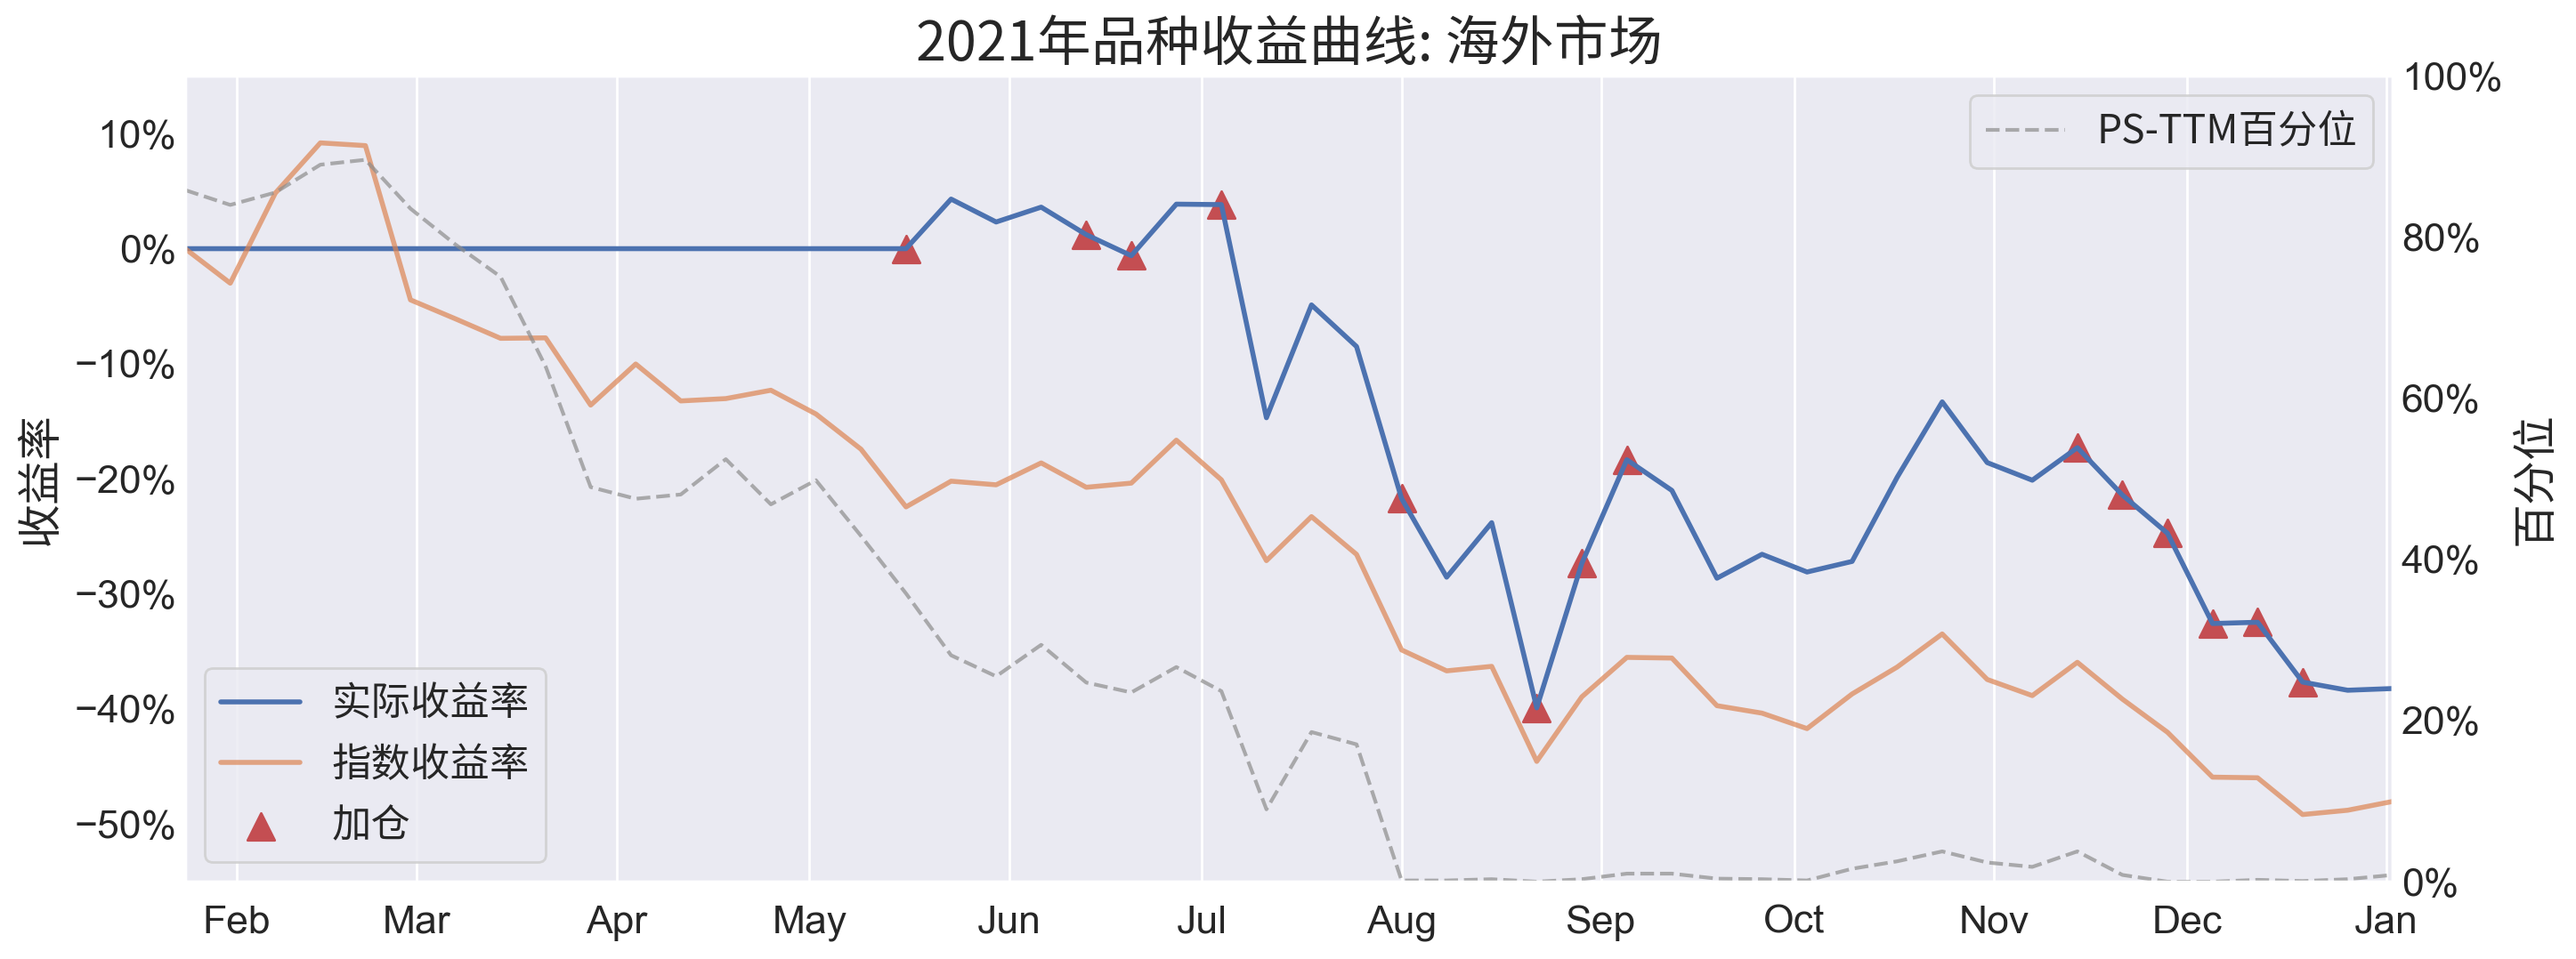
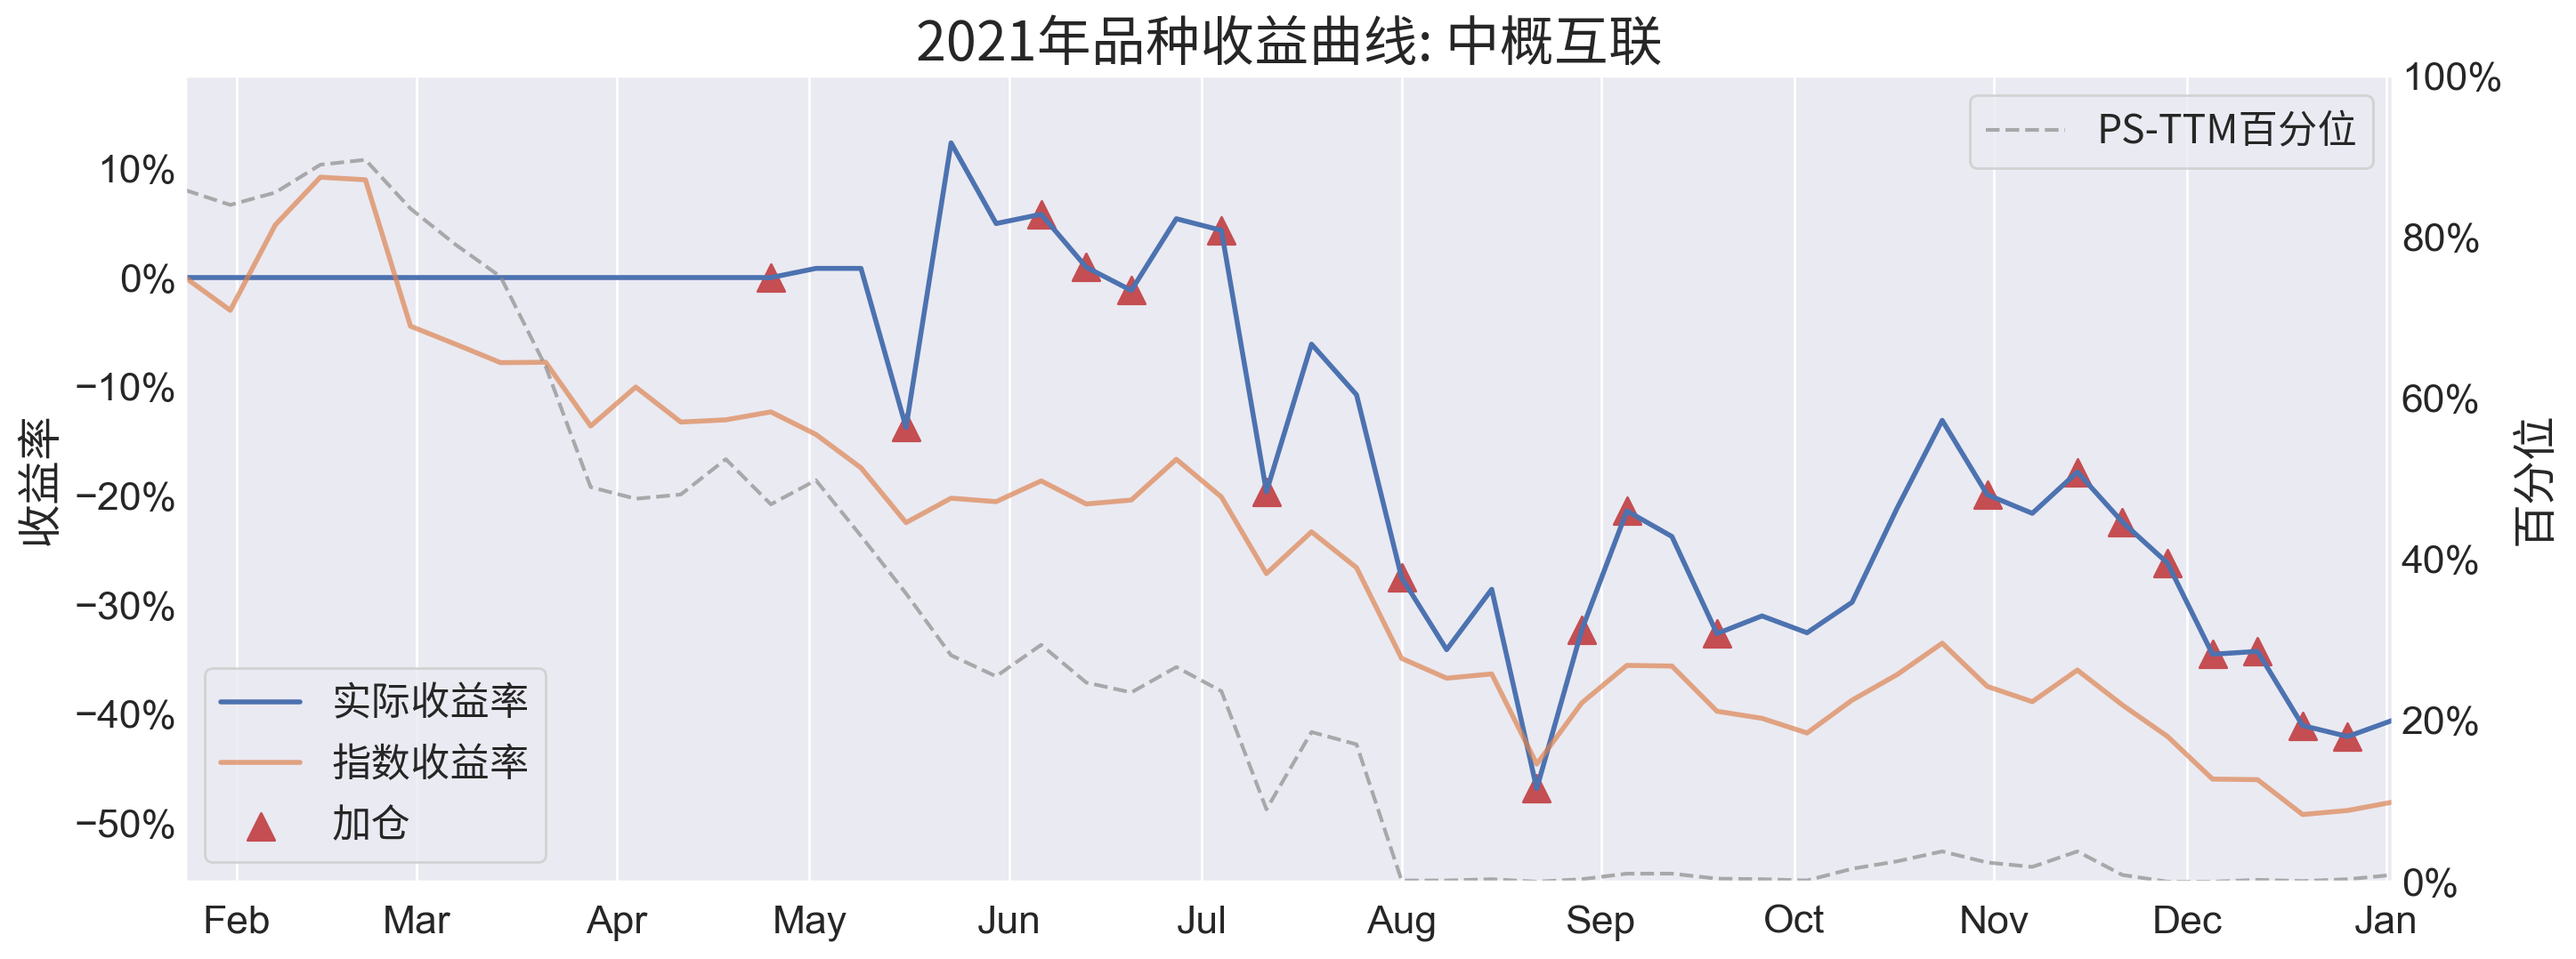
major change

diff --git a/_posts/2021-12-31-portfolio-review-2021.md b/_posts/2021-12-31-portfolio-review-2021.md
@@ -7,21 +7,23 @@ categories: Zen
 
 ---
 
-2021年是我以资产组合形式进行投资的第一年，刚好以年为单位，对组合的表现做个复盘。备注：数据统计区间是1月22日收盘后至12月31日收盘后。
+2021年是我以资产组合形式进行投资的第一年。从今年开始，以后每年年底会做一下投资复盘。
+
+备注：数据统计区间是1月22日收盘后至12月31日收盘后。
 
 ## 大事记
 
 - 1月初，下决心严肃对待投资理财，散兵游勇时代结束，资产组合时代开始
 - 1月下，完成初步学习和准备，开始建仓
 - 2月中，消费医疗见顶
-- 3月上，沪市下到3310，为本年最低点
+- 3月上，沪市达年内低点，下探3310
 - 4月底，完成建仓，并开启网格策略
 - 5月上，人口普查结果公布，部分行业的命运改变
 - 7月，反垄断收紧，中概互联月内跌17%
-- 9月中，原材料行情冲顶，中证500、红利达年内最高点
+- 9月中，原材料行情冲顶，中证500、红利达年内高点
 - 9月底，恒大暴雷，地产业寒冬
-- 10月底，Facebook改名Meta，开启元宇宙行情
-- 12月，港股持续走弱，从年内高点回撤28%，中概互联腰斩
+- 10月底，Facebook改名Meta，元宇宙行情开启
+- 12月，港股持续走弱，年内恒生回撤28%，中概互联腰斩
 
 ## 总览
 
@@ -30,38 +32,27 @@ categories: Zen
 - 超额收益率：-1.82%
 - 最大回撤：-6.20%
 
-![](https://jiaxi-github-pages-photohost.oss-cn-beijing.aliyuncs.com/pyreneesalpaca/images/2021_portfolio_profit_data.png)
+![](https://jiaxi-github-pages-photohost.oss-cn-beijing.aliyuncs.com/pyreneesalpaca/images/2021_portfolio_account_overview.png)
 
 ## 市场
 
-主要指数收益率：
-
-- 沪深300：-11.3%
-- 中证500：+10.2%
-- 中证全指：+1.4%
-- 恒生指数：-20.6%
-- 标普500：+24.4%
-- 国债指数：+3.9%
-
-![](https://jiaxi-github-pages-photohost.oss-cn-beijing.aliyuncs.com/pyreneesalpaca/images/2021_portfolio_overview.png)
+![](https://jiaxi-github-pages-photohost.oss-cn-beijing.aliyuncs.com/pyreneesalpaca/images/2021_portfolio_return_by_type.png)
 
 ## 组合
 
-期末组合策略分布：
-
-- 长期策略仓位：47.7%
-- 网格仓位：22.8%（留存6.2%，浮动16.6%）
-- 活钱：29.5%
-
 期末组合风险等级分布：
 
-- 高风险：53.9%（长期+网格留存）
+- 高风险：53.9%（长期策略+网格留存）
 - 中风险：16.6%（网格浮动）
 - 低风险：29.5%（债券+货币）
 
-期内组合总资产和品种分布走势如下：
+期末组合品种分布表现：
 
-![](https://jiaxi-github-pages-photohost.oss-cn-beijing.aliyuncs.com/pyreneesalpaca/images/2021_portfolio_asset_distrib.png)
+![](https://jiaxi-github-pages-photohost.oss-cn-beijing.aliyuncs.com/pyreneesalpaca/images/2021_portfolio_order_by_position.png)
+
+期内组合品种分布走势：
+
+![](https://jiaxi-github-pages-photohost.oss-cn-beijing.aliyuncs.com/pyreneesalpaca/images/2021_portfolio_asset_trend.png)
 
 ## 品种分析
 
@@ -69,12 +60,11 @@ categories: Zen
 
 ![](https://jiaxi-github-pages-photohost.oss-cn-beijing.aliyuncs.com/pyreneesalpaca/images/2021_portfolio_item_plot_500.png)
 
-当前仓位15.9%，上限25%
-
-- 品种收益率（资金加权）：+18.5%
+- 资金加权收益率：+18.5%
 - 参考收益率（中证500）：+10.9%
 - 最大回撤：-13.2%
 - PE-TTM五年百分位：12.4%
+- 仓位/仓位上限：15.9/25%
 
 今年中证500大幅跑赢全指，成分股业绩提升明显，在前两年远远跑输沪深300的情况下，实现了价值回归。当前PE点位不贵，仓位适宜，涨跌10%以内不考虑操作。
 
@@ -82,12 +72,11 @@ categories: Zen
 
 ![](https://jiaxi-github-pages-photohost.oss-cn-beijing.aliyuncs.com/pyreneesalpaca/images/2021_portfolio_item_plot_hongli.png)
 
-当前仓位8.0%，上限15%
-
-- 品种收益率（资金加权）：+15.6%
+- 资金加权收益率：+15.6%
 - 参考收益率（中证红利）：+12.6%
-- 最大回撤：-12.6%
+- 最大回撤：-18.5%
 - PB五年百分位：0.7%
+- 仓位/仓位上限：8.0/15%
 
 今年红利强势，大幅跑赢全指，因资源和周期型行业迎来爆发，PE、PB点位仍然很低。但应该警惕其欺骗性，一是因为指数选股逻辑特殊，二是因为周期行业的波动性。9月行情触及止盈线后回调较大，目前仓位适中，涨跌10%以内不考虑操作。
 
@@ -95,25 +84,35 @@ categories: Zen
 
 ![](https://jiaxi-github-pages-photohost.oss-cn-beijing.aliyuncs.com/pyreneesalpaca/images/2021_portfolio_item_plot_yiyao.png)
 
-当前仓位4.4%（+网格留存仓位0.15%），上限15%
-
-- 品种收益率（资金加权）：+1.2%
+- 资金加权收益率：+1.2%
 - 参考收益率（全指医药）：-14.8%
-- 最大回撤：-20.0%
+- 最大回撤：-20.1%
 - PE-TTM五年百分位：54.7%
+- 仓位/仓位上限：4.6/15%
 
 今年医疗弱势，幸好选择了较好的品种获得超额收益。应该认识到未来医疗波动还会很大，且仓位不重，可以重点关注买入机会。再跌10%考虑加仓。
+
+#### 消费
+
+![](https://jiaxi-github-pages-photohost.oss-cn-beijing.aliyuncs.com/pyreneesalpaca/images/2021_portfolio_item_plot_xiaofei.png)
+
+- 资金加权收益率：+5.1%
+- 参考收益率（中证消费）：-9.7%
+- 最大回撤：-16.7%
+- PE-TTM五年百分位：98.4%
+- 仓位/仓位上限：1.2/15%
+
+今年除了家电的网格，没有其它机会建仓。重点关注。
 
 #### 金融地产
 
 ![](https://jiaxi-github-pages-photohost.oss-cn-beijing.aliyuncs.com/pyreneesalpaca/images/2021_portfolio_item_plot_jinrong.png)
 
-当前仓位4.5%（+网格留存仓位0.05%），上限7.5%
-
-- 品种收益率（资金加权）：-5.0%
+- 资金加权收益率：-4.9%
 - 参考收益率（全指金融）：-12.3%
 - 最大回撤：-22.4%
 - PB五年百分位：2.4%
+- 仓位/仓位上限：4.6/7.5%
 
 今年金融地产没有实现价值回归，反而因地产业暴雷继续深陷泥潭。当下只能继续埋伏着等反转，仓位合适也不需要再买了。涨跌10%以内不考虑操作。
 
@@ -121,12 +120,11 @@ categories: Zen
 
 ![](https://jiaxi-github-pages-photohost.oss-cn-beijing.aliyuncs.com/pyreneesalpaca/images/2021_portfolio_item_plot_chuanmei.png)
 
-当前仓位3.3%（+网格留存仓位0.6%），上限7.5%
-
-- 品种收益率（资金加权）：+5.6%
+- 资金加权收益率：+9.1%
 - 参考收益率（中证传媒）：-4.6%
-- 最大回撤：-29.8%
+- 最大回撤：-30.5%
 - PE-TTM五年百分位：57.7%
+- 仓位/仓位上限：3.9/7.5%
 
 传媒指数进入历史大底，PE却没有，说明行业本身处于困境，仓位保持谨慎。下半年配合元宇宙概念拉起了一波升势，虽然没有业绩支撑，但品种与大盘关联度较低，从资产配置角度，有较高战略价值。距离清空网格留存仓位还有6%。
 
@@ -134,12 +132,11 @@ categories: Zen
 
 ![](https://jiaxi-github-pages-photohost.oss-cn-beijing.aliyuncs.com/pyreneesalpaca/images/2021_portfolio_item_plot_xinxi.png)
 
-当前仓位3.3%，上限7.5%
-
-- 品种收益率（资金加权）：1.8%
-- 参考收益率（全指信息）：+18.2%
+- 资金加权收益率：+18.3%
+- 参考收益率（全指信息）：+1.8%
 - 最大回撤：-12.7%
 - PE-TTM五年百分位：30.76%
+- 仓位/仓位上限：3.3/7.5%
 
 信息和今年的热门题材新能源、芯片相似度高，也顺利跑赢了大盘。当前PE、PB点位正常偏高，距离第一条止盈线10%左右。
 
@@ -147,62 +144,31 @@ categories: Zen
 
 ![](https://jiaxi-github-pages-photohost.oss-cn-beijing.aliyuncs.com/pyreneesalpaca/images/2021_portfolio_item_plot_zhonggai.png)
 
-当前仓位8.2%（+网格留存仓位4.2%），上限15%
-
-- 品种收益率（资金加权）：-38.2%
+- 资金加权收益率：-40.6%
 - 参考收益率（中国互联网50）：-48.1%
-- 最大回撤：-42.4%
+- 最大回撤：-52.7%
 - PS-TTM五年百分位：0.8%
+- 仓位/仓位上限：12.5/15%
 
 一个字，惨......今年在中概上犯了最多的错误：网格间距太小，长期策略开仓太早，下降趋势中加仓太频繁等等...时间和空间至少取其一，今年中概给我上了印象深刻的一课。
 
 ### 其他品种
 
-- 场内网格：-14.6%
-- 货币基金：+2.86%
-- 债券基金：+3.53%
+- 网格浮动：-13.4%
+- 货币基金：+2.86%（年化+3.05%）
+- 债券基金：+3.53%（年化+4.19%）
 
-今年债券收益不错。场内网格亏损主要来自中概互联，一开始开了4%的网格导致后面很被动。
+今年债券收益不错。网格亏损主要来自中概互联，一开始开了4%的网格导致后面很被动。
 
-## 部分未配置品种
+### 未配置品种
 
-#### 沪深300
+- 沪深300：仓位上限25%/PE-TTM五年百分位：66.5%
+- 恒生：仓位上限10%/PE-TTM五年百分位：34.4%
+- 美股：仓位上限15%/PE-TTM五年百分位：72.7%
 
-当前仓位0%，上限25%
-
-- 参考收益率（沪深300）：-11.3%
-- PE-TTM五年百分位：66.5%
-
-在当前大类轮动的行情下，沪深300指数规则的“高吸低抛”逻辑显然是糟糕的，加上点位很高，短期不考虑建仓。
-
-#### 消费
-
-当前仓位0%（+网格留存仓位1.2%），上限15%
-
-- 参考收益率（中证消费）：-9.7%
-- PE-TTM五年百分位：98.4%
-
-今年除了家电的网格，没有其它机会建仓。重点关注。
-
-#### 恒生
-
-当前仓位0%，上限10%
-
-- 参考收益率（恒生指数）：-20.6%
-- PE-TTM五年百分位：34.4%
-
-恒生已经砸出了机会，但因为和中概互联相似度较高且中概互联仓位已经比较重，所以暂缓建仓。距离建仓还有8%左右。
-
-#### 美股
-
-当前仓位0%，上限15%
-
-- 参考收益率（标普500）：+24.4%
-- PE-TTM五年百分位：72.7%
-
-标普，yyds......明年应对美股高估值风险会是组合的一大任务。
+恒生距离建仓还有8%左右，考虑到和中概互联相似度较高，建仓不宜过重。沪深300和标普距离建仓还有较远距离，沪深300“高吸低抛”的逻辑在当前轮动行情下不是特别理想；标普则重点关注政策风险。
 
 ## 总结与展望
 
-虽然很多股指大幅收涨，但市场整体反映今年是比较难做的，组合也遗憾没有取得特别好的收益。明年市场预期会比今年更加难。年初低位的中小盘股和周期股都上涨较多，明年是否还有上升动力？地产、中概能否快速从打击中恢复？美股高估值风险何时释放？疫情会往何处去，又会对全球宏观政策造成什么样的影响？......2022，首要目标，还是活下来。
+虽然很多股指大幅收涨，但市场整体反映今年是比较难做的，组合也遗憾没有取得特别好的收益。明年市场预期会比今年更加难：年初低位的中小盘股和周期股都上涨较多，明年是否还有动力？地产、中概能否快速从打击中恢复？美股高估值风险何时释放？疫情会往何处去，又会对全球宏观经济造成什么样的影响？......2022，首要目标，还是活下来。
 
